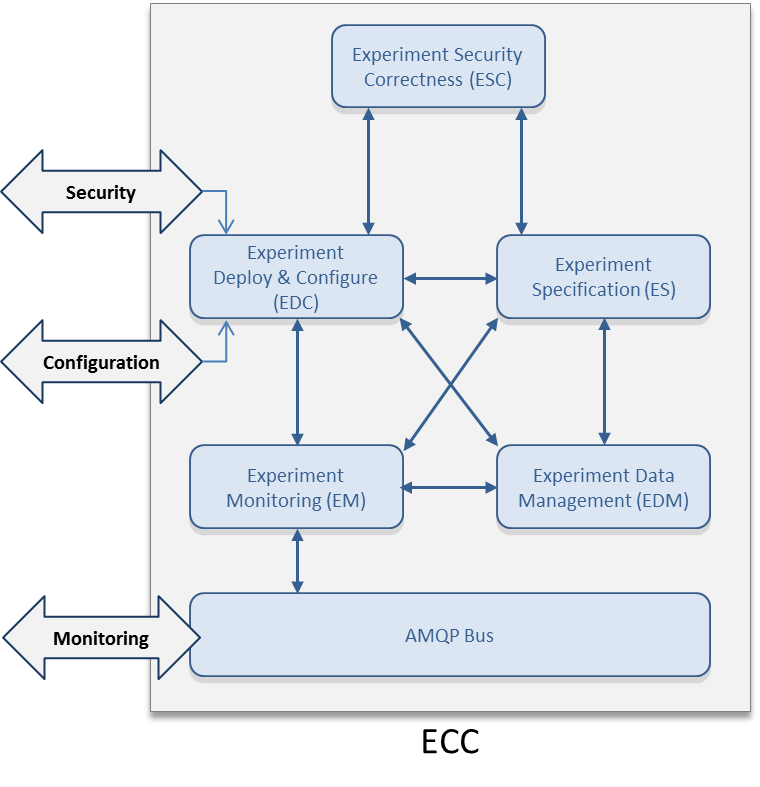
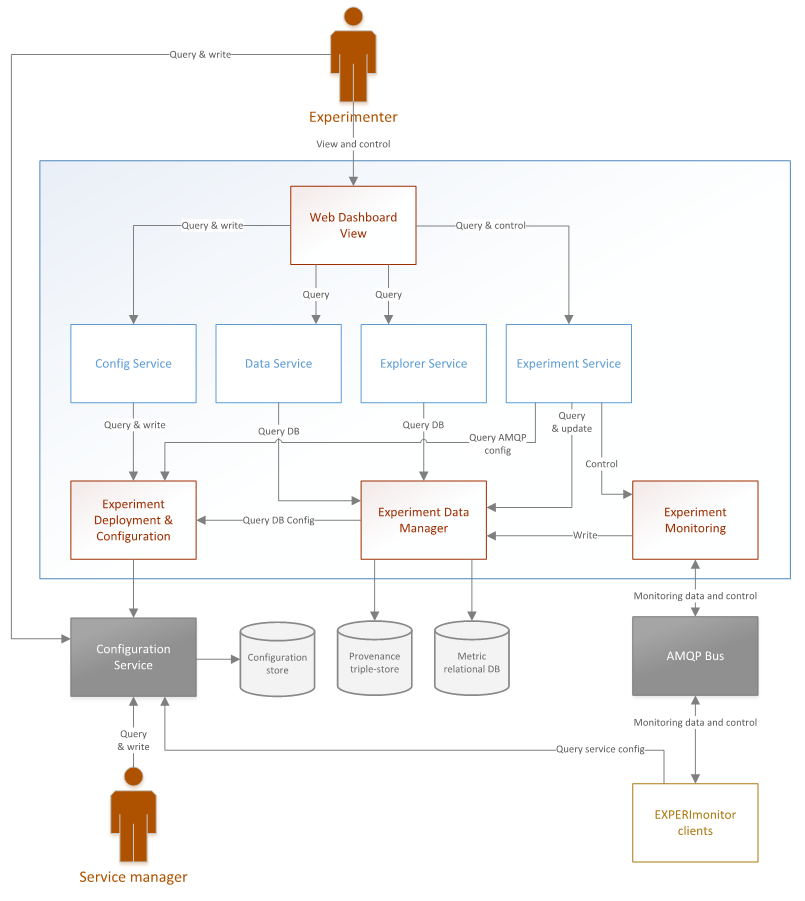
Updates the overview architecture diagram and component description for V2.2

diff --git a/doc/manual_source/mainContent/Overview.rst b/doc/manual_source/mainContent/Overview.rst
@@ -62,35 +62,31 @@ In the following sections, the reader is introduced to the ECC and its principal
 Introduction to the ECC
 -----------------------
 
-An ‘under the hood’ architectural perspective of the ECC is provided in the figure below.
+A high-level architectural overview of the EXPERImonitor architecture is presented in the figure below. 
 
 |image6_png|
 
-Each of the main components of the ECC are summarised in the sub-sections below. See section for a more detailed break-down of each component.
+From an architectural point of view, it is useful to think of the EXPERIMonitor is a collection of experiment related services and APIs. The 'Config', 'Data', 'Explorer' and 'Experiment' services are implemented as RESTful interfaces that provide the facilities required for the web dashboard to run. The application logic that underpins these services are divided into three main components related to deployment and configuration; experiment data management; and (live) experiment monitoring. A summary of these components (and the web dashboard view) is provided in sub-sections below. 
 
-EDC
-~~~
+Web Dashboard View
+~~~~~~~~~~~~~~~~~~
+This component provides a view on both live and previously run experiments carried out using the EXPERImonitor service. It is designed to be experimenter facing, offering control over the creation and execution of experiments as well as allow the experimenter to view metrics live (during experimentation) or explore/export data sets for later analysis.
 
-The ‘Experiment Deployment and Configuration’ component (EDC) provides deployment and configuration support for the EXPERImonitor service. Using the EDC, developers are able to automatically and rapidly set up an EXPERIMonitor service on a virtual machine using Vagrant/Oracle VM platforms. Configuration details that connect clients to the EXPERIMonitor service are also accessible to client writers via the EDC configuration API.
+Experiment Deployment and Configuration
+~~~~~~~~~~~~~~~~~~~~~~~~~~~~~~~~~~~~~~~
 
-ES
-~~
-
-The ‘Experiment Specification’ (ES) component consists of a set of configuration files that allow the experimenter to describe the resources and security details for the ECC components and their dependencies. This includes:
-
-* User name and password configurations for RabbitMQ and PostgreSQL resources
-* EXPERIMonitor entry point IDs
+The ‘Experiment Deployment and Configuration’ component (EDC) provides deployment and configuration functionality for the EXPERImonitor. Configuration details that integrate EXPERImonitor internal components as well as external (metric producing) clients to the EXPERIMonitor service are accessed and updated via this component. These include user name and password configurations for RabbitMQ and PostgreSQL resources and EXPERIMonitor entry point IDs. In addition to this, using EDC resources, developers are able to automatically and rapidly set up an EXPERIMonitor service on a virtual machine using Vagrant/Oracle VM platforms.
 
 
-EM (and AMQP Bus)
-~~~~~~~~~~~~~~~~~
+Experiment Monitoring (and AMQP Bus)
+~~~~~~~~~~~~~~~~~~~~~~~~~~~~~~~~~~~~
 
 The ‘Experiment Monitoring’ (EM) component manages the delivery of experiment data (QoS/QoE metrics) to the EDM from experimentally instrumented technology, connected via an AMQP bus (RabbitMQ is used as the implementation). Experimenters have access to a user interface (a web based dashboard) that controls the experimental monitoring process.
 
-EDM
-~~~
+Experiment Data Manager
+~~~~~~~~~~~~~~~~~~~~~~~
 
-The EDM manages the storage and retrieval of experiment related data. The current release of the EDM persists monitoring data of entities in experiments. This monitoring data is stored in a PostgreSQL 9.1.x (relational) database, according to a schema reflecting the experiment metrics model. Monitoring data is delivered to the EDM for storage by the EM and can be monitored by experimenters via a user interface.
+The EDM manages the storage and retrieval of experiment related data that includes metric and provenance based data. Metric related data is stored in a PostgreSQL 9.1.x (relational) database, according to a schema reflecting the experiment metrics model. Provenance orientated data is persisted by the EDM via connection to a triple store data service. Experiment data is delivered to the EDM for storage by the EM and can be monitored by experimenters via a user interface.
 
 
 The EXPERIMEDIA experiment process
